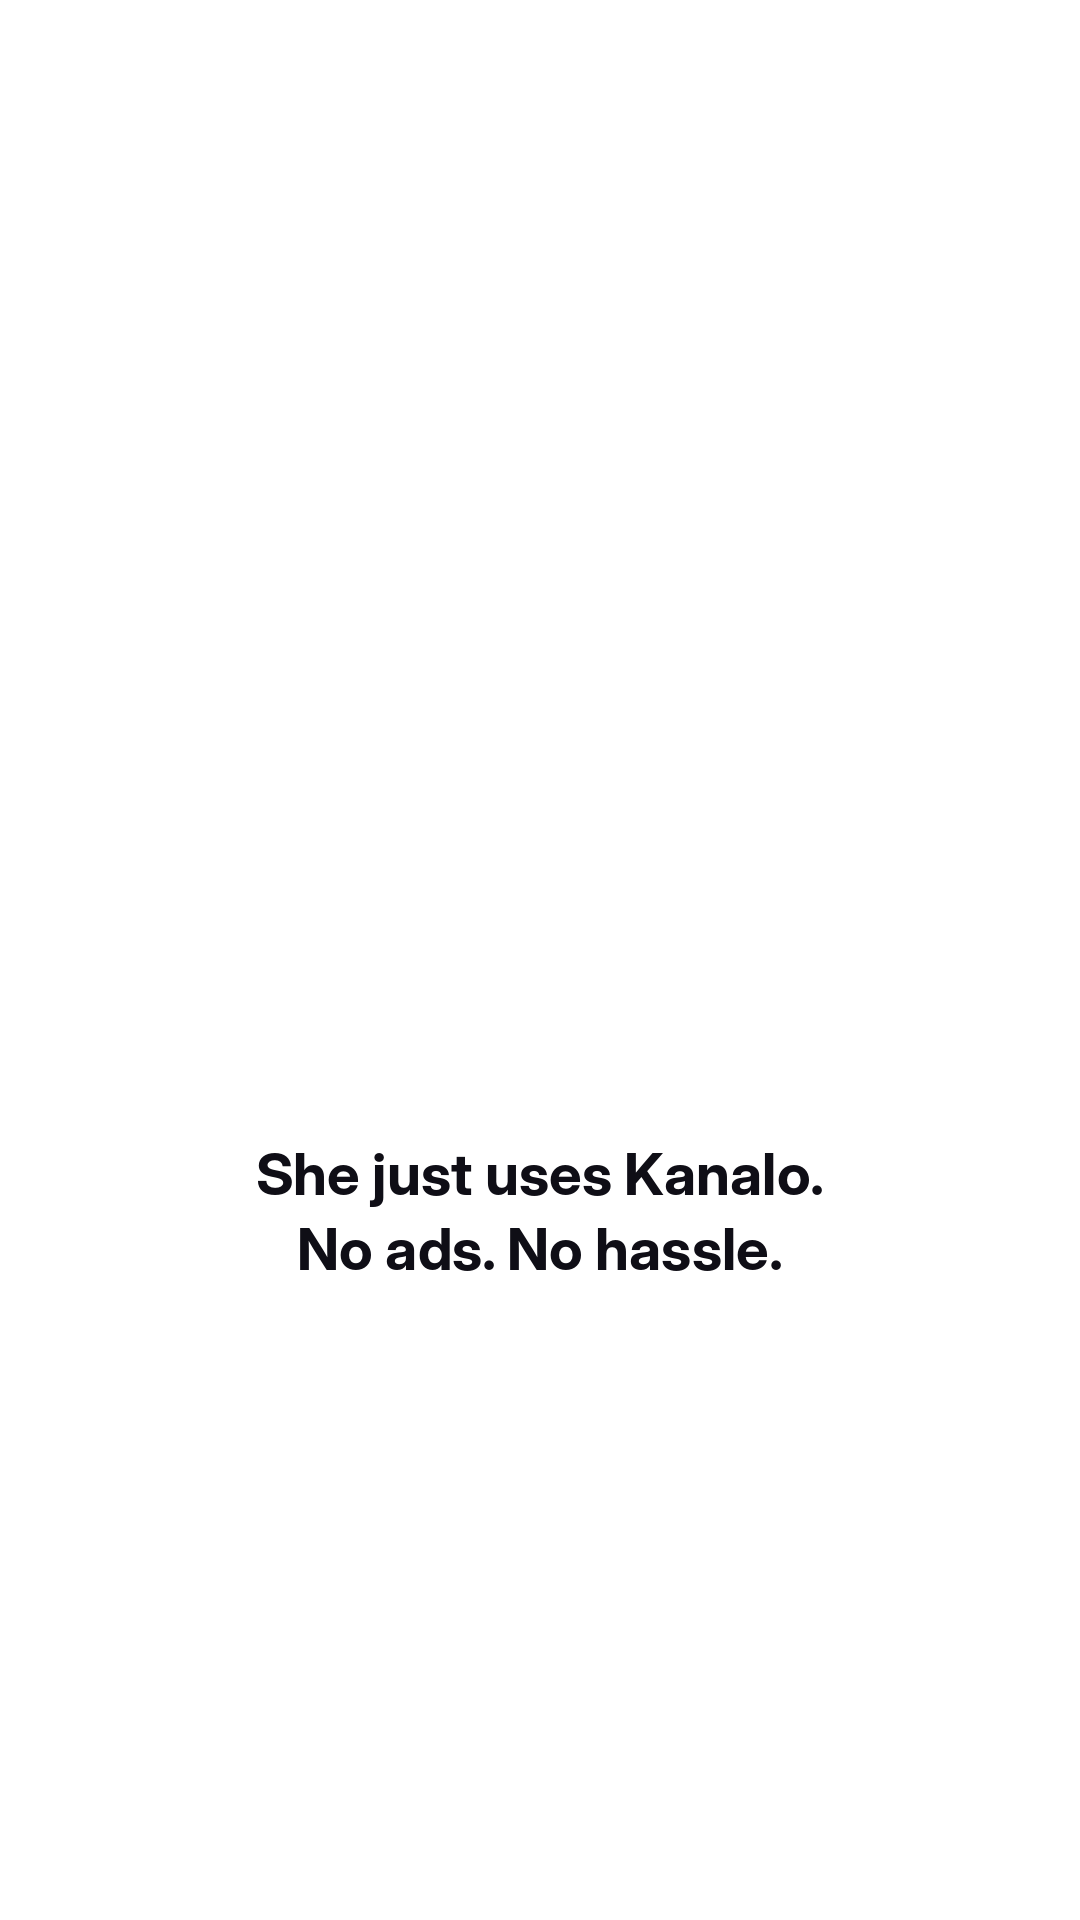
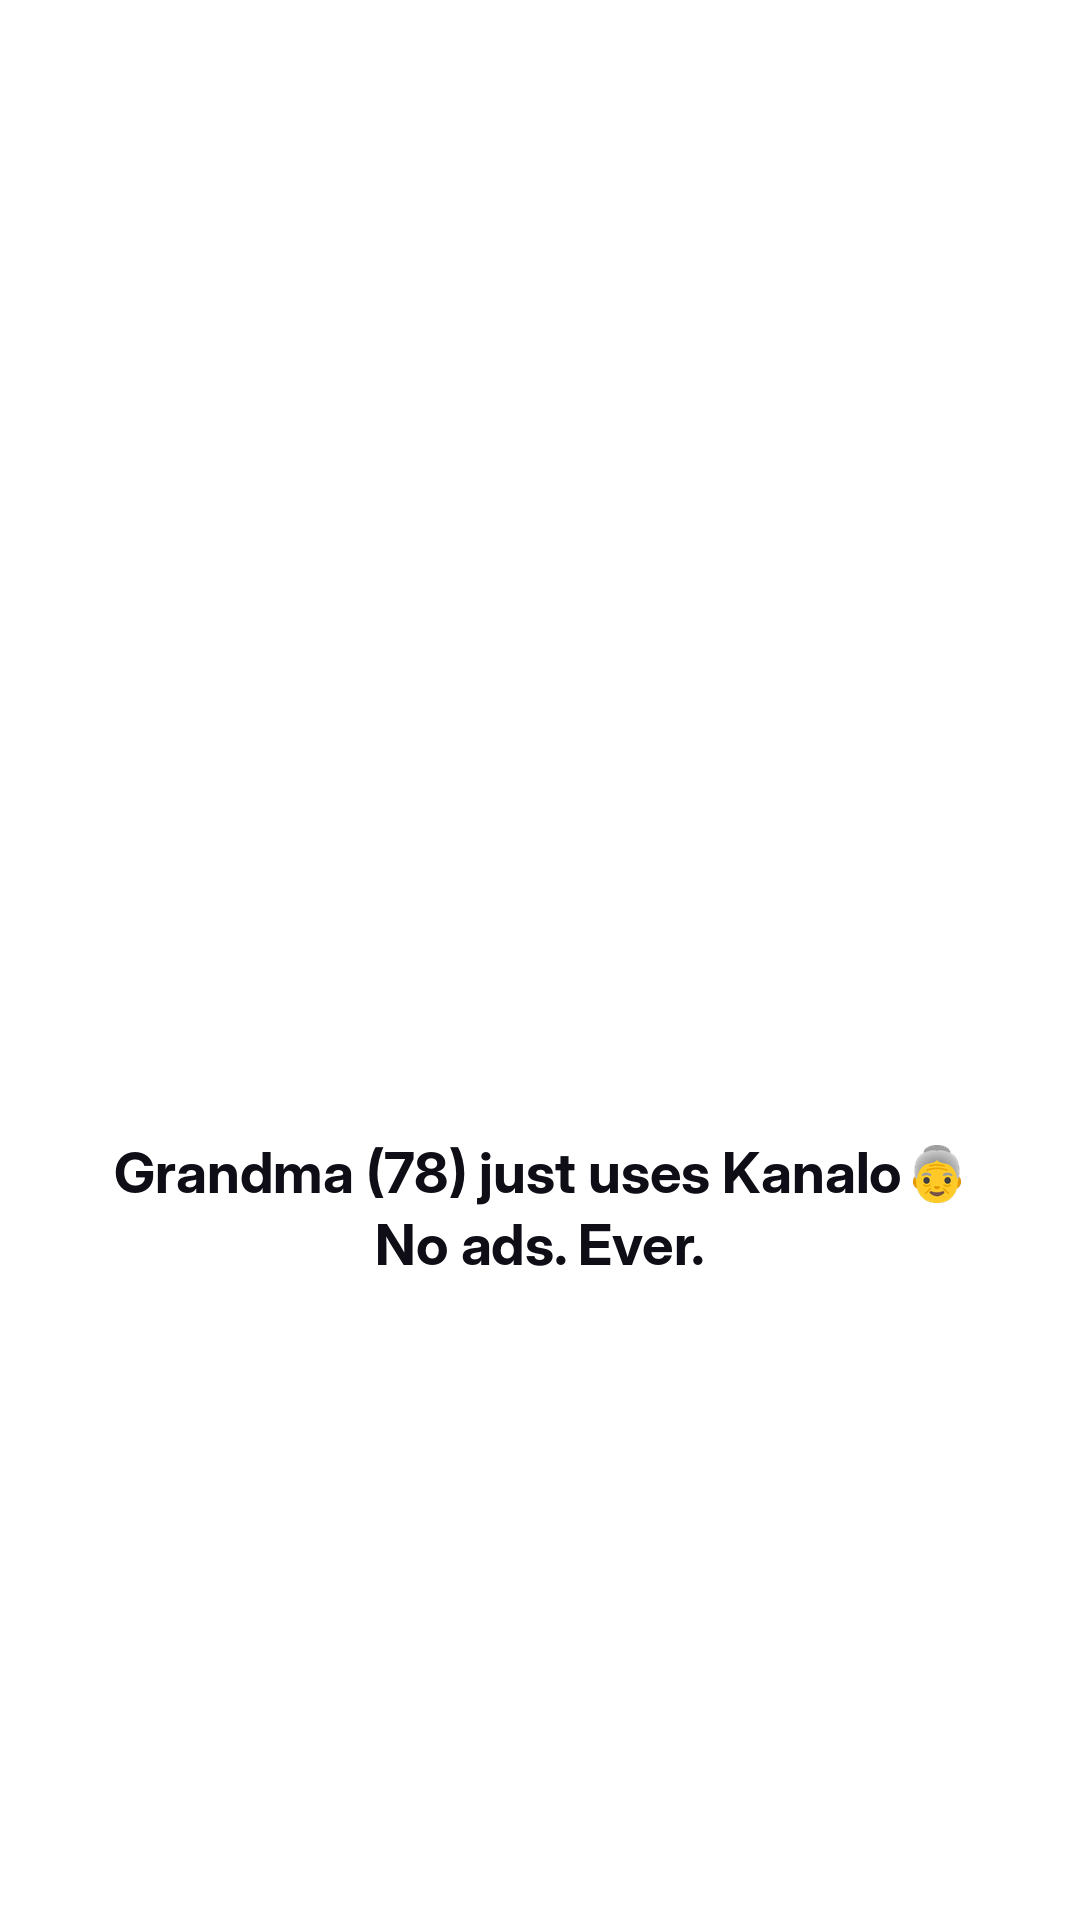
Oma v2: ad screen and new captions
Claude-Session: https://claude.ai/code/session_01Nfw8GqVW5u5Dp8ws2maeUt

Changed region(s): [[0.0917, 0.5938, 0.8861, 0.6875]]

diff --git a/ad_screen.py b/ad_screen.py
@@ -1,0 +1,35 @@
+"""Fake (invented) ad-break screen for a generic bad IPTV app. Usage: python3 ad_screen.py OUT.png [W H]"""
+import sys, math
+from PIL import Image, ImageDraw, ImageFilter
+import kanalo_video as kv
+
+W, H = (int(sys.argv[2]), int(sys.argv[3])) if len(sys.argv) > 3 else (756, 479)
+S = 3  # supersample
+w, h = W * S, H * S
+img = Image.new("RGB", (w, h), (20, 20, 24))
+d = ImageDraw.Draw(img)
+# loud generic ad: yellow/red burst
+for y in range(h):
+    t = y / h
+    d.line([(0, y), (w, y)], fill=(int(250 - 40 * t), int(200 - 120 * t), int(40 + 10 * t)))
+cx, cy = w * 0.32, h * 0.52
+for i in range(24):
+    a0 = i * math.pi / 12; a1 = a0 + math.pi / 24
+    d.polygon([(cx, cy), (cx + 3000 * math.cos(a0), cy + 3000 * math.sin(a0)), (cx + 3000 * math.cos(a1), cy + 3000 * math.sin(a1))], fill=(255, 225, 70))
+d.ellipse([cx - 330, cy - 330, cx + 330, cy + 330], fill=(230, 40, 50))
+f = kv.F(150, "Bold"); d.text((cx, cy - 40), "MEGA", font=f, fill="white", anchor="mm")
+d.text((cx, cy + 110), "SALE!", font=f, fill="white", anchor="mm")
+f2 = kv.F(84, "Bold")
+d.rounded_rectangle([w * 0.58, h * 0.36, w * 0.95, h * 0.62], 40, fill=(255, 255, 255))
+d.text((w * 0.765, h * 0.44), "-70%", font=kv.F(170, "Bold"), fill=(230, 40, 50), anchor="mm")
+d.text((w * 0.765, h * 0.56), "ONLY TODAY", font=kv.F(60, "Bold"), fill=(30, 30, 30), anchor="mm")
+# top-left AD badge and countdown, bottom progress bar
+d.rounded_rectangle([60, 60, 60 + 360, 60 + 110], 24, fill=(0, 0, 0, 200))
+d.text((60 + 180, 115), "AD  1 / 4", font=kv.F(64, "Bold"), fill=(255, 210, 0), anchor="mm")
+d.rounded_rectangle([w - 60 - 420, 60, w - 60, 170], 24, fill=(0, 0, 0))
+d.text((w - 60 - 210, 115), "Skip in 0:30", font=kv.F(56, "Bold"), fill="white", anchor="mm")
+d.rectangle([0, h - 34, w, h], fill=(0, 0, 0))
+d.rectangle([0, h - 34, int(w * 0.08), h], fill=(255, 210, 0))
+img = img.resize((W, H), Image.LANCZOS)
+img.save(sys.argv[1])
+print(sys.argv[1], img.size)

diff --git a/oma_overlays.py b/oma_overlays.py
@@ -3,18 +3,18 @@ import os, sys
 from vlc_overlays import card
 
 HOOK = {
-    "en": ["My grandma (78) set up IPTV", "faster than me 💀"],
-    "nl": ["Mijn oma (78) had IPTV", "sneller werkend dan ik 💀"],
-    "fr": ["Ma grand-mère (78 ans) a lancé", "l'IPTV plus vite que moi 💀"],
-    "es": ["Mi abuela (78) puso el IPTV", "más rápido que yo 💀"],
-    "de": ["Oma (78) hatte IPTV", "schneller am Laufen als ich 💀"],
+    "en": ["POV: your IPTV app plays", "4 ads. Again. 😤"],
+    "nl": ["POV: je IPTV-app geeft", "wéér 4 reclames 😤"],
+    "fr": ["POV : ton appli IPTV te met", "encore 4 pubs 😤"],
+    "es": ["POV: tu app de IPTV te pone", "otra vez 4 anuncios 😤"],
+    "de": ["POV: deine IPTV-App zeigt", "schon wieder 4 Werbungen 😤"],
 }
 PAY = {
-    "en": ["She just uses Kanalo.", "No ads. No hassle."],
-    "nl": ["Ze gebruikt gewoon Kanalo.", "Geen reclame. Geen gedoe."],
-    "fr": ["Elle utilise juste Kanalo.", "Zéro pub. Zéro prise de tête."],
-    "es": ["Ella usa Kanalo.", "Sin anuncios. Sin líos."],
-    "de": ["Sie nutzt einfach Kanalo.", "Keine Werbung. Kein Stress."],
+    "en": ["Grandma (78) just uses Kanalo 👵", "No ads. Ever."],
+    "nl": ["Oma (78) gebruikt gewoon Kanalo 👵", "Geen reclame. Nooit."],
+    "fr": ["Mamie (78 ans) utilise Kanalo 👵", "Zéro pub. Jamais."],
+    "es": ["La abuela (78) usa Kanalo 👵", "Sin anuncios. Nunca."],
+    "de": ["Oma (78) nutzt einfach Kanalo 👵", "Keine Werbung. Nie."],
 }
 
 if __name__ == "__main__":
